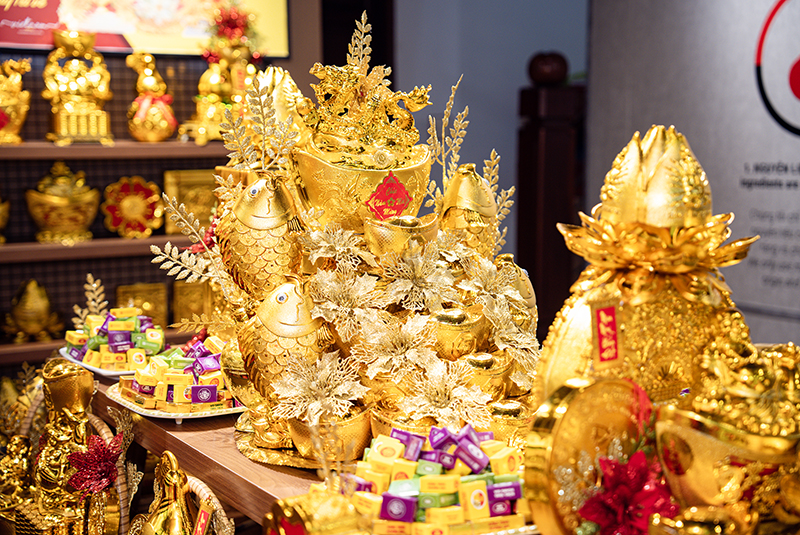
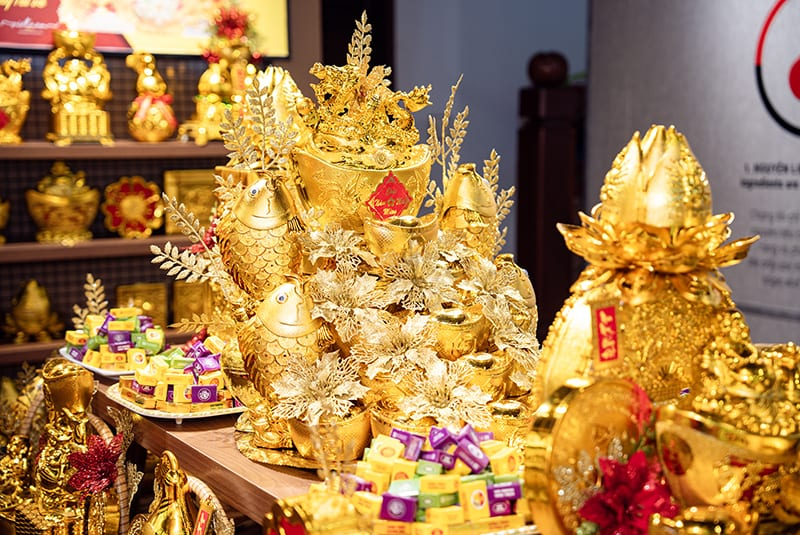
perf(images): nén ảnh (-79%, 18MB→3.9MB) + đổi tên packshot bột sang ASCII
Tối ưu hình ảnh cho Core Web Vitals & image SEO:
- Nén lại 25 ảnh JPEG nặng (q82 mozjpeg, cap 2000px) — ảnh bị lưu gần như
  không nén: post-cau-chuyen-sau-rieng 3.0MB→309KB, post-tra-xanh-bien-tau
  2.9MB→194KB, bx-web/cd-web/cat-bot-dau 640KB→13–14KB. Kích thước không đổi.
- 6 packshot bột: đổi tên có dấu/space sang ASCII giàu từ khoá
  (vd. "bot dau xanh ca rot.jpg" → bot-dau-xanh-ca-rot.jpg), resize ≤1200,
  bỏ hack encodeURI/%20; cập nhật tham chiếu ở powders.ts, danh mục bột,
  và bài "bột đậu xanh pha sẵn".

Đã build & kiểm chứng: 0 tham chiếu ảnh gãy toàn site; ảnh nén vẫn hợp lệ,
đúng kích thước.

Claude-Session: https://claude.ai/code/session_01PnarAu79EBqmA6jWsKLjCF

diff --git a/src/data/powders.ts b/src/data/powders.ts
@@ -62,7 +62,7 @@ export const POWDERS: Record<string, Powder> = {
     accent: '#e1622a',
     accentInk: '#b0451a',
     accentSoft: '#fbeee4',
-    image: '/images/bot/bot dau xanh ca rot.jpg',
+    image: '/images/bot/bot-dau-xanh-ca-rot.jpg',
     ingredients:
       'Đường (đường kính trắng, đường gluco), bột đậu xanh (40%), bột cà rốt (9%), sữa bột, bột nghệ, hương liệu vani tổng hợp.',
     highlights: [
@@ -88,7 +88,7 @@ export const POWDERS: Record<string, Powder> = {
     accent: '#86b23a',
     accentInk: '#5e7d24',
     accentSoft: '#f1f6e4',
-    image: '/images/bot/bot dau xanh rau ma.jpg',
+    image: '/images/bot/bot-dau-xanh-rau-ma.jpg',
     ingredients:
       'Đường (đường kính trắng, đường gluco), bột đậu xanh (40%), bột rau má (10%), sữa bột, hương liệu vani tổng hợp.',
     highlights: [
@@ -114,7 +114,7 @@ export const POWDERS: Record<string, Powder> = {
     accent: '#e0a32e',
     accentInk: '#986a14',
     accentSoft: '#fbf2dd',
-    image: '/images/bot/bot dau xanh sua dua.jpg',
+    image: '/images/bot/bot-dau-xanh-sua-dua.jpg',
     ingredients:
       'Đường (đường kính trắng, đường gluco), bột đậu xanh (30%), bột sữa dừa (20%), sữa bột, hương liệu vani tổng hợp.',
     highlights: [
@@ -140,7 +140,7 @@ export const POWDERS: Record<string, Powder> = {
     accent: '#5c9a3e',
     accentInk: '#3f6e2a',
     accentSoft: '#eaf3e2',
-    image: '/images/bot/bot dau xanh matcha.jpg',
+    image: '/images/bot/bot-dau-xanh-matcha.jpg',
     ingredients:
       'Đường (đường kính trắng, đường gluco), bột đậu xanh (45%), bột matcha trà xanh (2,5%), sữa bột, hương liệu vani tổng hợp.',
     highlights: [
@@ -166,7 +166,7 @@ export const POWDERS: Record<string, Powder> = {
     accent: '#3f7d4e',
     accentInk: '#2c5c39',
     accentSoft: '#e9f0e6',
-    image: '/images/bot/bot dau xanh rau ma khong them duong.jpg',
+    image: '/images/bot/bot-dau-xanh-rau-ma-khong-duong.jpg',
     ingredients: 'Bột đậu xanh (80%), bột sữa dừa, bột rau má (8%), bột matcha trà xanh.',
     highlights: [
       { title: '80% đậu xanh nguyên chất', body: 'Tỷ lệ đậu xanh rất cao — đạm 22,2 g/100 g, giàu dưỡng chất.' },
@@ -192,7 +192,7 @@ export const POWDERS: Record<string, Powder> = {
     accent: '#c79a3a',
     accentInk: '#8f6816',
     accentSoft: '#f8f1dc',
-    image: '/images/bot/bot dau xanh sua dua khong them duong (2).jpg',
+    image: '/images/bot/bot-dau-xanh-sua-dua-khong-duong.jpg',
     ingredients: 'Bột đậu xanh (74%), bột sữa dừa (20%), bột cà rốt, bột nghệ.',
     highlights: [
       { title: '74% đậu xanh nguyên chất', body: 'Đạm 19,8 g/100 g, giàu dưỡng chất từ đậu xanh.' },

diff --git a/src/content/product-categories/bot-dau.md b/src/content/product-categories/bot-dau.md
@@ -52,27 +52,27 @@ selfDeclarations:
     href: '/cong-bo/TCB2026/06.%20B%E1%BB%99t%20%C4%91%E1%BA%ADu%20xanh%20rau%20m%C3%A1%20kh%C3%B4ng%20th%C3%AAm%20%C4%91%C6%B0%E1%BB%9Dng%20RVHG.pdf'
 products:
   - name: 'Bột đậu xanh Cà Rốt'
-    image: '/images/bot/bot dau xanh ca rot.jpg'
+    image: '/images/bot/bot-dau-xanh-ca-rot.jpg'
     weight: '400 g'
     href: '/botdx-carot/'
   - name: 'Bột đậu xanh Rau Má'
-    image: '/images/bot/bot dau xanh rau ma.jpg'
+    image: '/images/bot/bot-dau-xanh-rau-ma.jpg'
     weight: '400 g'
     href: '/botdx-rauma/'
   - name: 'Bột đậu xanh Sữa Dừa'
-    image: '/images/bot/bot dau xanh sua dua.jpg'
+    image: '/images/bot/bot-dau-xanh-sua-dua.jpg'
     weight: '400 g'
     href: '/botdx-suadua/'
   - name: 'Bột đậu xanh Matcha'
-    image: '/images/bot/bot dau xanh matcha.jpg'
+    image: '/images/bot/bot-dau-xanh-matcha.jpg'
     weight: '400 g'
     href: '/botdx-matcha/'
   - name: 'Bột đậu xanh Rau Má – không thêm đường'
-    image: '/images/bot/bot dau xanh rau ma khong them duong.jpg'
+    image: '/images/bot/bot-dau-xanh-rau-ma-khong-duong.jpg'
     weight: '500 g'
     href: '/bdx-rauma-khongduong/'
   - name: 'Bột đậu xanh Sữa Dừa – không thêm đường'
-    image: '/images/bot/bot dau xanh sua dua khong them duong (2).jpg'
+    image: '/images/bot/bot-dau-xanh-sua-dua-khong-duong.jpg'
     weight: '500 g'
     href: '/bdx-rauma-khongduong/'
   - name: 'Bột đậu xanh dinh dưỡng'
